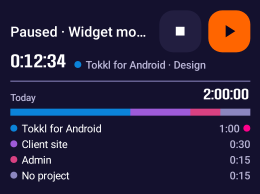
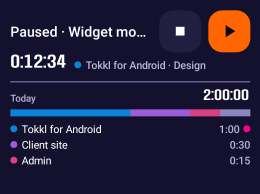
fix: size clocks and preserve timer action taps
Measure native widget clock rows at the system font scale and
reserve their actual height when choosing project rows. Use the
launcher sizing API in the native host so framework padding is
accounted for, and update four reviewed screenshot references.

Serialize server actions across published timer states without
losing taps on newly drawn controls. Keep duplicate taps blocked,
recheck waiting targets, and leave ordinary Stop on the queue.

Validate 37 API31 cases, API36 interactions and all 64 Timer widget
references, 1,071 JVM tests, build, lint and 11 npm tests.

diff --git a/app/src/main/java/com/github/e0ipso/tokkl/timer/TimerSurfaceActions.kt b/app/src/main/java/com/github/e0ipso/tokkl/timer/TimerSurfaceActions.kt
@@ -3,9 +3,12 @@ package com.github.e0ipso.tokkl.timer
 import com.github.e0ipso.tokkl.cache.EntryChanges
 import com.github.e0ipso.tokkl.cache.TimerControls
 import com.github.e0ipso.tokkl.cache.TimerTarget
+import com.github.e0ipso.tokkl.cache.target
 import com.github.e0ipso.tokkl.timerstate.PauseActions
 import com.github.e0ipso.tokkl.timerstate.TimerActionResult
-import java.util.concurrent.atomic.AtomicBoolean
+import java.util.concurrent.ConcurrentHashMap
+import kotlinx.coroutines.sync.Mutex
+import kotlinx.coroutines.sync.withLock
 
 /**
  * A timer control on a surface outside the app's screens: the running timer's notification, the
@@ -21,8 +24,8 @@ sealed interface SurfaceTap {
 
     /**
      * A Pause, Resume or Stop while paused, which needs the server and is never queued. [send]
-     * sends it once and returns what it came to, or null when it was not sent because another
-     * one from these surfaces was still on its way, as after a second quick tap. A surface that
+     * sends it once and returns what it came to, or null for a duplicate tap or a target that
+     * changed while waiting for the previous call. A surface that
      * runs in a broadcast ends the broadcast first, so a slow server cannot hold it past its time
      * limit.
      */
@@ -43,8 +46,9 @@ sealed interface SurfaceTap {
  * revision the control was drawn at, also after a process restart, so the server refuses a tap on
  * a state it has moved past. Pause goes ahead only where the controls offer it now, which needs
  * the timer API and no Pomodoro session, so a control drawn before either changed sends nothing.
- * One server action goes out at a time: a tap while one is on its way sends nothing, as the
- * surface still shows the state the first tap acted on. A Stop of a running entry never waits.
+ * One server action goes out at a time. Duplicate taps on the same state send nothing. Once
+ * the server publishes the next state, a tap on its control waits for the previous call to
+ * return, then checks the state again before sending. A Stop of a running entry never waits.
  *
  * @param controls what the phone shows now, read at the tap.
  * @param account the signed-in account's name, as the targets of its controls carry it.
@@ -82,31 +86,38 @@ class TimerSurfaceActions(
 
     /** A request for [action] on the paused chain [target] showed, while a chain is paused. */
     private suspend fun whilePaused(target: TimerTarget, action: suspend () -> TimerActionResult): SurfaceTap? {
-        if (target.entryId != 0L || controls() !is TimerControls.Paused) return null
-        return request(action)
+        if (target.entryId != 0L) return null
+        val paused = controls() as? TimerControls.Paused ?: return null
+        return request(paused.target, action)
     }
 
     private suspend fun pause(target: TimerTarget): SurfaceTap? {
         val running = controls() as? TimerControls.Running ?: return null
         if (!running.pausable || target.entryId == 0L || changes.currentId(target.entryId) != running.entry.id) return null
-        return request {
+        return request(running.target) {
             if (running.unsent) sendQueued()
             server.pause()
         }
     }
 
-    /** A request that sends [action], or null while another is on its way. */
-    private fun request(action: suspend () -> TimerActionResult): SurfaceTap.Request? {
-        if (sending.get()) return null
+    /** Ignore duplicate taps; serialize actions on newly published states and recheck them. */
+    private fun request(expected: TimerTarget, action: suspend () -> TimerActionResult): SurfaceTap.Request? {
+        if (expected in sending) return null
         return SurfaceTap.Request {
-            if (!sending.compareAndSet(false, true)) return@Request null
+            if (!sending.add(expected)) return@Request null
             try {
-                action()
+                requests.withLock {
+                    val current = controls()
+                    if (expected.account != account() || current.target != expected ||
+                        (current is TimerControls.Running && !current.pausable)) return@withLock null
+                    action()
+                }
             } finally {
-                sending.set(false)
+                sending.remove(expected)
             }
         }
     }
 
-    private val sending = AtomicBoolean(false)
+    private val sending = ConcurrentHashMap.newKeySet<TimerTarget>()
+    private val requests = Mutex()
 }

diff --git a/app/src/main/java/com/github/e0ipso/tokkl/widget/TokklWidget.kt b/app/src/main/java/com/github/e0ipso/tokkl/widget/TokklWidget.kt
@@ -140,6 +140,14 @@ private fun ColumnScope.TimerCard(context: Context, state: WidgetState.Ready, ki
     val large = kind == TimerWidgetSize.LARGE
     val width = LocalSize.current.width.value - 2 * WidgetLayout.PADDING_DP
     val active = state.running != null || state.paused != null
+    // Android 12 scales sp linearly; newer Android versions enlarge big text less.
+    // Reserve the native font's actual height rather than assuming the newer curve.
+    val paint = clockPaint(context, if (large) 34f else 22f)
+    val clockHeight = maxOf(WidgetLayout.clockRowHeight(large, scale),
+        (paint.fontMetrics.bottom - paint.fontMetrics.top) / context.resources.displayMetrics.density + 4f)
+    val todayPaint = clockPaint(context, 18f)
+    val todayHeight = maxOf(WidgetLayout.todayRowHeight(scale),
+        (todayPaint.fontMetrics.bottom - todayPaint.fontMetrics.top) / context.resources.displayMetrics.density + 4f)
     Row(GlanceModifier.fillMaxWidth().height(48.dp).semantics {
         contentDescription = listOfNotNull(description(context, state), projectText(context, state), state.paused?.let { context.getString(R.string.widget_paused_label) }).joinToString(", ")
     }, verticalAlignment = Alignment.CenterVertically) {
@@ -158,7 +166,7 @@ private fun ColumnScope.TimerCard(context: Context, state: WidgetState.Ready, ki
         PrimaryControl(context, state, 48f)
     }
     if (active) {
-        Row(GlanceModifier.fillMaxWidth().height(WidgetLayout.clockRowHeight(large, scale).dp), verticalAlignment = Alignment.CenterVertically) {
+        Row(GlanceModifier.fillMaxWidth().height(clockHeight.dp), verticalAlignment = Alignment.CenterVertically) {
             TimerClock(context, state, if (large) 34f else 22f, if (large) width else width * .55f)
             if (!large) {
                 Spacer(GlanceModifier.width(8.dp))
@@ -172,7 +180,7 @@ private fun ColumnScope.TimerCard(context: Context, state: WidgetState.Ready, ki
     val day = state.day
     val reportAction = actionStartActivity(WidgetNavigation.intent(context, WidgetNavigation.OPEN_TODAY))
     val templates = large && state.favorites.isNotEmpty()
-    val count = timerWidgetProjectRows(LocalSize.current.height.value, kind, scale, active, templates)
+    val count = timerWidgetProjectRows(LocalSize.current.height.value, kind, scale, active, templates, clockHeight, todayHeight)
     val segments = timerWidgetSegments(day?.projects.orEmpty())
     Column(GlanceModifier.fillMaxWidth().clickable(reportAction)) {
         if (large) {
@@ -209,7 +217,7 @@ private fun ColumnScope.TimerCard(context: Context, state: WidgetState.Ready, ki
                 }
             }
         } else {
-            Row(GlanceModifier.fillMaxWidth().height(WidgetLayout.todayRowHeight(scale).dp).semantics { contentDescription = context.getString(R.string.widget_open_report_description) }, verticalAlignment = Alignment.CenterVertically) {
+            Row(GlanceModifier.fillMaxWidth().height(todayHeight.dp).semantics { contentDescription = context.getString(R.string.widget_open_report_description) }, verticalAlignment = Alignment.CenterVertically) {
                 Label(context.getString(R.string.widget_today), 11f, muted = true)
                 Spacer(GlanceModifier.defaultWeight())
                 DayClock(context, day, 18f, width - 64 * scale)

diff --git a/app/src/test/java/com/github/e0ipso/tokkl/timer/TimerSurfaceActionsTest.kt b/app/src/test/java/com/github/e0ipso/tokkl/timer/TimerSurfaceActionsTest.kt
@@ -180,6 +180,52 @@ class TimerSurfaceActionsTest {
         assertTrue("the next tap goes out again", actions.tap(TimerSurfaceAction.Pause, target) is SurfaceTap.Request)
     }
 
+    @Test
+    fun aTapOnThePublishedNextStateWaitsForThePreviousRequestToReturn() = runBlocking {
+        now = running(id = 42)
+        val gate = CompletableDeferred<Unit>()
+        held = gate
+        val first = actions.tap(TimerSurfaceAction.Pause, running(id = 42).target) as SurfaceTap.Request
+        val sending = async(start = CoroutineStart.UNDISPATCHED) { first.send() }
+        try {
+            // TimerActions publishes the server response before returning to the caller.
+            // A notification can already show Resume while the Pause call is unwinding.
+            now = paused(revision = 9)
+            val next = actions.tap(TimerSurfaceAction.Resume, paused(revision = 9).target)
+            assertTrue("the newly drawn control accepts a tap", next is SurfaceTap.Request)
+            val resuming = async(start = CoroutineStart.UNDISPATCHED) { (next as SurfaceTap.Request).send() }
+            assertEquals("server calls stay serialized", listOf("pause"), calls)
+            gate.complete(Unit)
+            assertEquals(TimerActionResult.Done, sending.await())
+            assertEquals(TimerActionResult.Done, resuming.await())
+            assertEquals(listOf("pause", "resume 9"), calls)
+        } finally {
+            gate.complete(Unit)
+        }
+    }
+
+    @Test
+    fun aWaitingActionDoesNothingIfItsStateChangesAgain() = runBlocking {
+        now = running(id = 42)
+        val gate = CompletableDeferred<Unit>()
+        held = gate
+        val first = actions.tap(TimerSurfaceAction.Pause, running(id = 42).target) as SurfaceTap.Request
+        val sending = async(start = CoroutineStart.UNDISPATCHED) { first.send() }
+        try {
+            now = paused(revision = 9)
+            val next = actions.tap(TimerSurfaceAction.Resume, paused(revision = 9).target) as SurfaceTap.Request
+            val resuming = async(start = CoroutineStart.UNDISPATCHED) { next.send() }
+            assertNull("a duplicate of the waiting action", actions.tap(TimerSurfaceAction.Resume, paused(revision = 9).target))
+            now = running(id = 43)
+            gate.complete(Unit)
+            sending.await()
+            assertNull("the waiting control is now stale", resuming.await())
+            assertEquals("only the original action reached the server", listOf("pause"), calls)
+        } finally {
+            gate.complete(Unit)
+        }
+    }
+
     private fun tap(action: TimerSurfaceAction, target: TimerTarget): SurfaceTap? = runBlocking { actions.tap(action, target) }
 
     private fun running(id: Long, pausable: Boolean = true, unsent: Boolean = false, accumulatedSeconds: Long = 0) = TimerControls.Running(

diff --git a/app/src/androidTest/java/com/github/e0ipso/tokkl/widget/NativeWidget.kt b/app/src/androidTest/java/com/github/e0ipso/tokkl/widget/NativeWidget.kt
@@ -127,7 +127,9 @@ class NativeWidget(
     fun resize(width: Int, height: Int) {
         scenario.onActivity {
             view.layoutParams = FrameLayout.LayoutParams(dp(width), dp(height))
-            manager.updateAppWidgetOptions(id, options(width, height))
+            // Like a launcher, report the full host size through the framework API so
+            // Android subtracts its default widget padding before notifying Glance.
+            view.updateAppWidgetSize(Bundle(), listOf(SizeF(width.toFloat(), height.toFloat())))
         }
     }
 
@@ -183,7 +185,10 @@ class NativeWidget(
         texts.forEach { text ->
             val visible = android.graphics.Rect()
             assertTrue("${text.text} is visible", text.getGlobalVisibleRect(visible))
-            assertTrue("${text.text} is not clipped by its row: ${visible.height()} / ${text.height}", visible.height() >= text.height - 1)
+            assertTrue("${text.text} is not clipped by its row: ${visible.height()} / ${text.height}; " +
+                generateSequence<View>(text) { it.parent as? View }.joinToString(" <- ") {
+                    "${it.javaClass.simpleName}[${it.width}x${it.height}, y=${it.y}, ${it.contentDescription}]"
+                }, visible.height() >= text.height - 1)
             assertTrue("${text.text} fits its TextView: layout ${text.layout?.height}, view ${text.height}, padding ${text.compoundPaddingTop + text.compoundPaddingBottom}", checkNotNull(text.layout).height <= text.height - text.compoundPaddingTop - text.compoundPaddingBottom)
             if (text is Chronometer) {
                 assertTrue("the elapsed clock is fully visible", visible.width() >= text.width - 1)

diff --git a/app/src/main/java/com/github/e0ipso/tokkl/widget/TimerWidgetLayout.kt b/app/src/main/java/com/github/e0ipso/tokkl/widget/TimerWidgetLayout.kt
@@ -21,11 +21,14 @@ internal fun timerWidgetSegments(projects: List<WidgetDayProject>): List<WidgetD
 }
 
 /** Reserve the template row first, then spend remaining space on project rows. */
-internal fun timerWidgetProjectRows(heightDp: Float, size: TimerWidgetSize, fontScale: Float, active: Boolean, templates: Boolean): Int {
+internal fun timerWidgetProjectRows(heightDp: Float, size: TimerWidgetSize, fontScale: Float, active: Boolean, templates: Boolean,
+    clockHeightDp: Float = WidgetLayout.clockRowHeight(size == TimerWidgetSize.LARGE, fontScale),
+    todayHeightDp: Float = WidgetLayout.todayRowHeight(fontScale),
+): Int {
     if (size == TimerWidgetSize.STRIP) return 0
     val scale = fontScale.coerceAtLeast(1f)
-    val timer = 48f + if (active) WidgetLayout.clockRowHeight(size == TimerWidgetSize.LARGE, scale) else 0f
-    val report = if (size == TimerWidgetSize.LARGE) 10f + WidgetLayout.reportHeadingHeight(scale) + WidgetLayout.statsHeight(scale) else 10f + WidgetLayout.todayRowHeight(scale) + 14f
+    val timer = 48f + if (active) clockHeightDp else 0f
+    val report = if (size == TimerWidgetSize.LARGE) 10f + WidgetLayout.reportHeadingHeight(scale) + WidgetLayout.statsHeight(scale) else 10f + todayHeightDp + 14f
     val chips = if (templates && size == TimerWidgetSize.LARGE) 48f else 0f
     val row = if (size == TimerWidgetSize.LARGE) 28f * scale else 18f * scale
     return ((heightDp - 2 * WidgetLayout.PADDING_DP - timer - report - chips) / row).toInt().coerceIn(0, 5)
